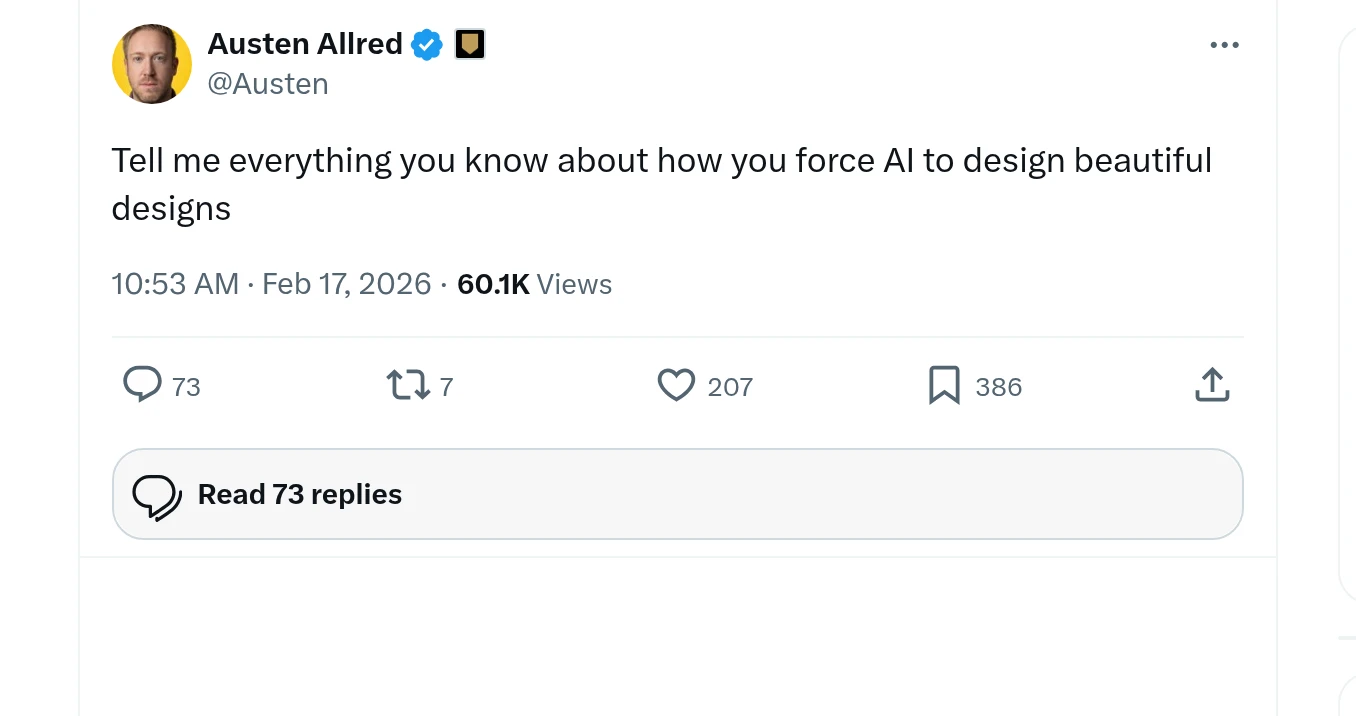
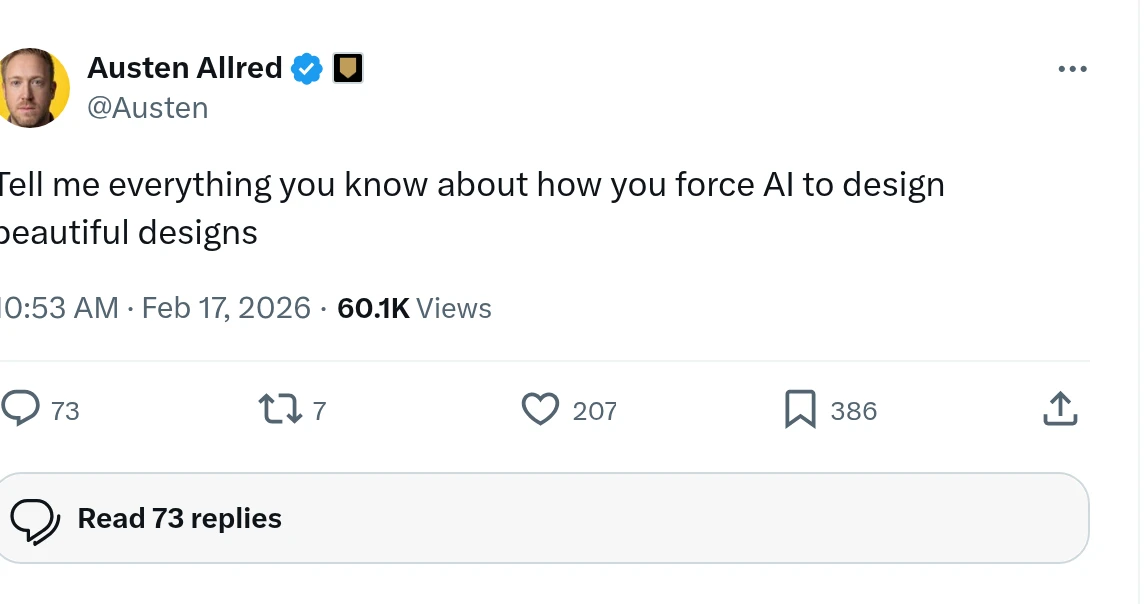
Fix screenshot skill: use element.screenshot with CSS padding instead of clip coordinates
- Replaces manual clip+padding approach with element.screenshot() + CSS padding injection
- Padding/margin on the element itself prevents sub-pixel clipping at 2x DPI
- Long posts capped to 1200px via CSS maxHeight+overflow:hidden
- No more guessing padding values — deterministic capture for all tweet sizes
- Updated both Austen Allred and Oliver Henry screenshots

Amp-Thread-ID: https://ampcode.com/threads/T-019d8bb7-1154-7076-92a5-2ec45d6a34e7

diff --git a/.agents/skills/capturing-screenshots/scripts/capture.js b/.agents/skills/capturing-screenshots/scripts/capture.js
@@ -326,33 +326,35 @@ async function captureScreenshot() {
         await page.screenshot(screenshotOpts);
         console.log(`✅ Full-page fallback screenshot saved: ${finalPath}`);
       } else {
-        // Optionally scroll the element into view
-        await element.evaluate(el => el.scrollIntoView({ block: 'center' }));
-        await new Promise(r => setTimeout(r, 500));
+        const MAX_CAPTURE_HEIGHT = 1200;
+        const PADDING = 12;
 
-        // Get bounding box for the element
+        // Inject CSS padding + margin to prevent sub-pixel clipping at high DPI
+        // and ensure content isn't flush against page edges
+        await element.evaluate((el, pad) => {
+          el.style.padding = pad + 'px';
+          el.style.margin = pad + 'px';
+          el.style.boxSizing = 'content-box';
+        }, PADDING);
+        await new Promise(r => setTimeout(r, 200));
+
+        // Re-read bounding box after padding is applied
         const box = await element.boundingBox();
-        if (box) {
-          const pageWidth = await page.evaluate(() => document.documentElement.scrollWidth);
-          const pageHeight = await page.evaluate(() => document.documentElement.scrollHeight);
+        const isLong = box && box.height > MAX_CAPTURE_HEIGHT;
 
-          // Cap height for very long posts (long-form X articles, threads).
-          // Anything over 1200px logical height gets capped to a clean preview.
-          const MAX_CAPTURE_HEIGHT = 1200;
-          const captureHeight = Math.min(box.height + padding * 2, MAX_CAPTURE_HEIGHT);
-          if (box.height > MAX_CAPTURE_HEIGHT) {
-            console.log(`📏 Long content detected (${Math.round(box.height)}px). Capping to ${MAX_CAPTURE_HEIGHT}px preview.`);
-          }
-
-          screenshotOpts.clip = {
-            x: Math.max(0, box.x - padding),
-            y: Math.max(0, box.y - padding),
-            width: Math.min(box.width + padding * 2, pageWidth - Math.max(0, box.x - padding)),
-            height: Math.min(captureHeight, pageHeight - Math.max(0, box.y - padding)),
-          };
-          await page.screenshot(screenshotOpts);
+        if (isLong) {
+          console.log(`📏 Long content (${Math.round(box.height)}px). Capping to ${MAX_CAPTURE_HEIGHT}px preview.`);
+          // For long posts, inject a spacer before the element to guarantee
+          // it isn't flush against the page top (which causes top-edge clipping).
+          // For long posts, use element.screenshot which handles bounding box
+          // correctly, but first cap the visible height via CSS.
+          await element.evaluate((el, maxH) => {
+            el.style.maxHeight = (maxH - 24) + 'px';
+            el.style.overflow = 'hidden';
+          }, MAX_CAPTURE_HEIGHT);
+          await new Promise(r => setTimeout(r, 300));
+          await element.screenshot(screenshotOpts);
         } else {
-          // Direct element screenshot — Puppeteer auto-calculates bounding box
           await element.screenshot(screenshotOpts);
         }
 

diff --git a/.gemini/skills/capturing-screenshots/scripts/capture.js b/.gemini/skills/capturing-screenshots/scripts/capture.js
@@ -326,33 +326,35 @@ async function captureScreenshot() {
         await page.screenshot(screenshotOpts);
         console.log(`✅ Full-page fallback screenshot saved: ${finalPath}`);
       } else {
-        // Optionally scroll the element into view
-        await element.evaluate(el => el.scrollIntoView({ block: 'center' }));
-        await new Promise(r => setTimeout(r, 500));
+        const MAX_CAPTURE_HEIGHT = 1200;
+        const PADDING = 12;
 
-        // Get bounding box for the element
+        // Inject CSS padding + margin to prevent sub-pixel clipping at high DPI
+        // and ensure content isn't flush against page edges
+        await element.evaluate((el, pad) => {
+          el.style.padding = pad + 'px';
+          el.style.margin = pad + 'px';
+          el.style.boxSizing = 'content-box';
+        }, PADDING);
+        await new Promise(r => setTimeout(r, 200));
+
+        // Re-read bounding box after padding is applied
         const box = await element.boundingBox();
-        if (box) {
-          const pageWidth = await page.evaluate(() => document.documentElement.scrollWidth);
-          const pageHeight = await page.evaluate(() => document.documentElement.scrollHeight);
+        const isLong = box && box.height > MAX_CAPTURE_HEIGHT;
 
-          // Cap height for very long posts (long-form X articles, threads).
-          // Anything over 1200px logical height gets capped to a clean preview.
-          const MAX_CAPTURE_HEIGHT = 1200;
-          const captureHeight = Math.min(box.height + padding * 2, MAX_CAPTURE_HEIGHT);
-          if (box.height > MAX_CAPTURE_HEIGHT) {
-            console.log(`📏 Long content detected (${Math.round(box.height)}px). Capping to ${MAX_CAPTURE_HEIGHT}px preview.`);
-          }
-
-          screenshotOpts.clip = {
-            x: Math.max(0, box.x - padding),
-            y: Math.max(0, box.y - padding),
-            width: Math.min(box.width + padding * 2, pageWidth - Math.max(0, box.x - padding)),
-            height: Math.min(captureHeight, pageHeight - Math.max(0, box.y - padding)),
-          };
-          await page.screenshot(screenshotOpts);
+        if (isLong) {
+          console.log(`📏 Long content (${Math.round(box.height)}px). Capping to ${MAX_CAPTURE_HEIGHT}px preview.`);
+          // For long posts, inject a spacer before the element to guarantee
+          // it isn't flush against the page top (which causes top-edge clipping).
+          // For long posts, use element.screenshot which handles bounding box
+          // correctly, but first cap the visible height via CSS.
+          await element.evaluate((el, maxH) => {
+            el.style.maxHeight = (maxH - 24) + 'px';
+            el.style.overflow = 'hidden';
+          }, MAX_CAPTURE_HEIGHT);
+          await new Promise(r => setTimeout(r, 300));
+          await element.screenshot(screenshotOpts);
         } else {
-          // Direct element screenshot — Puppeteer auto-calculates bounding box
           await element.screenshot(screenshotOpts);
         }
 
